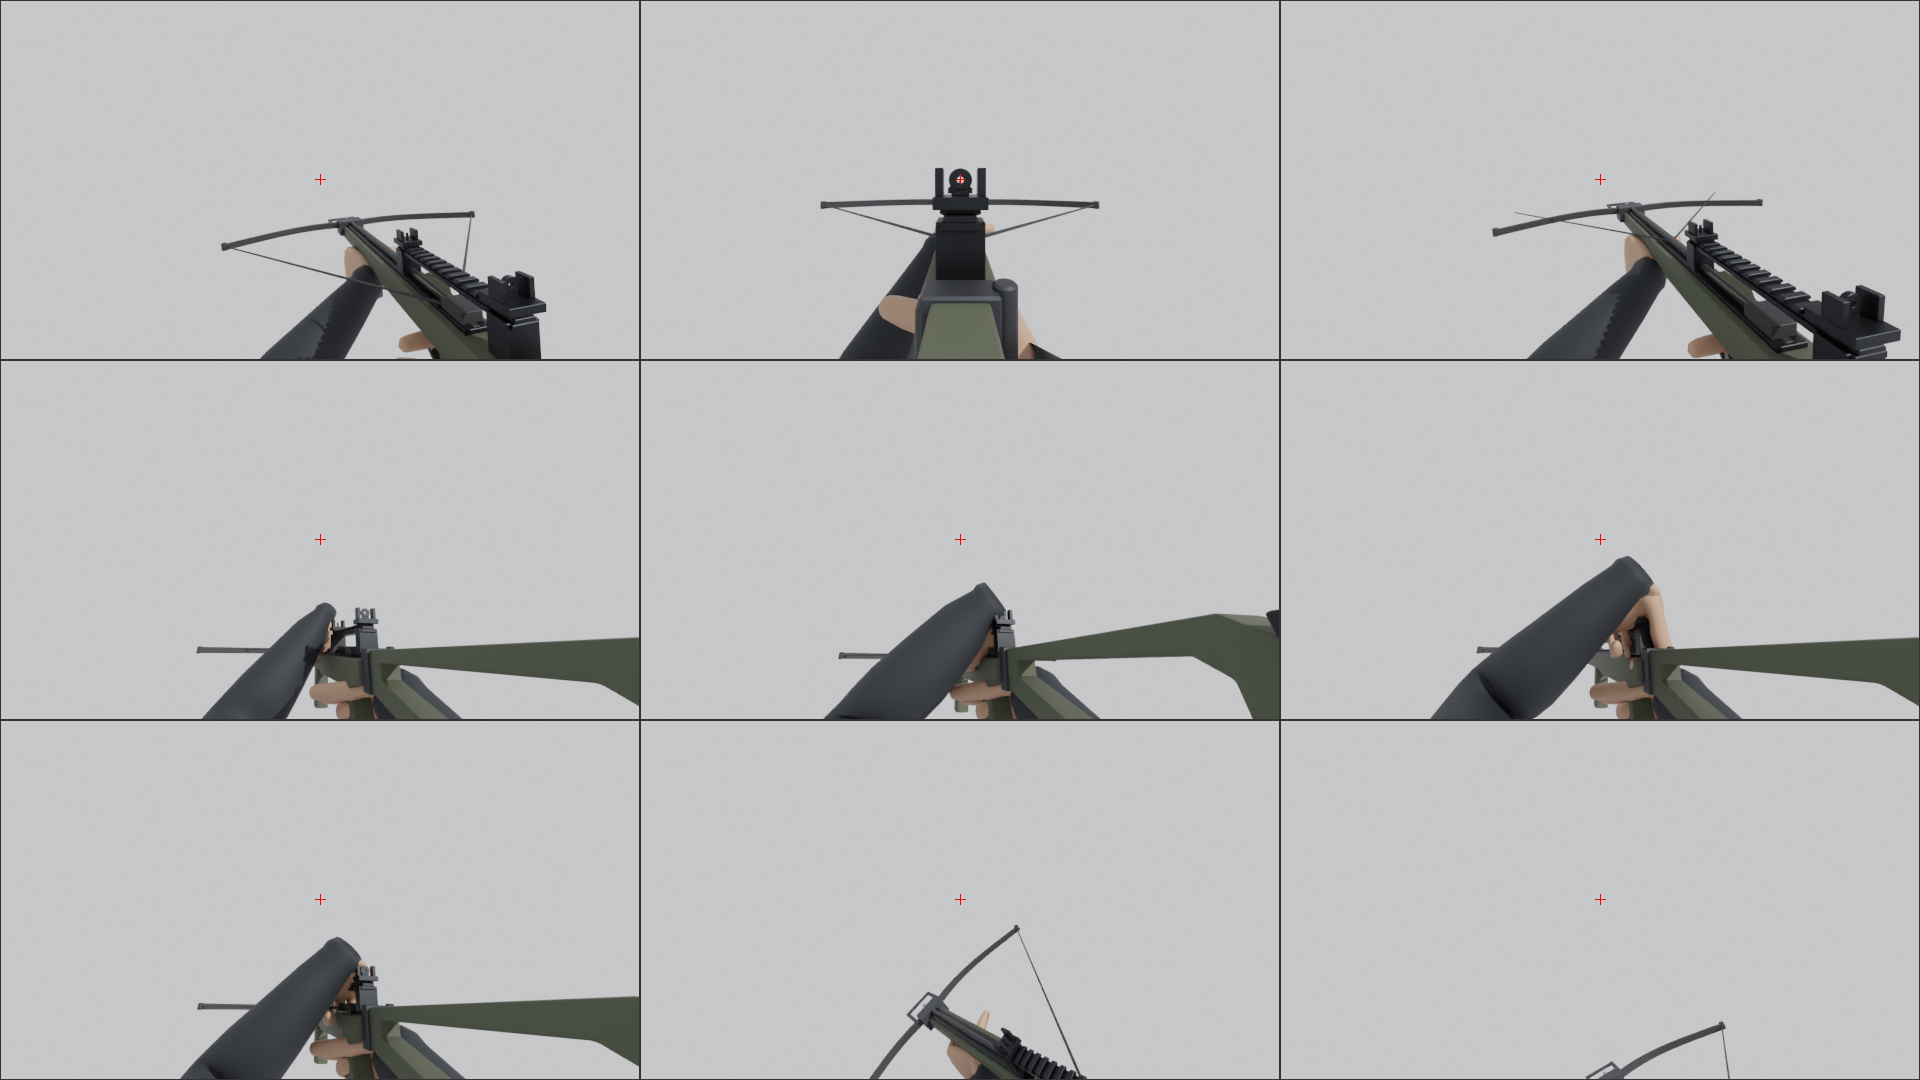
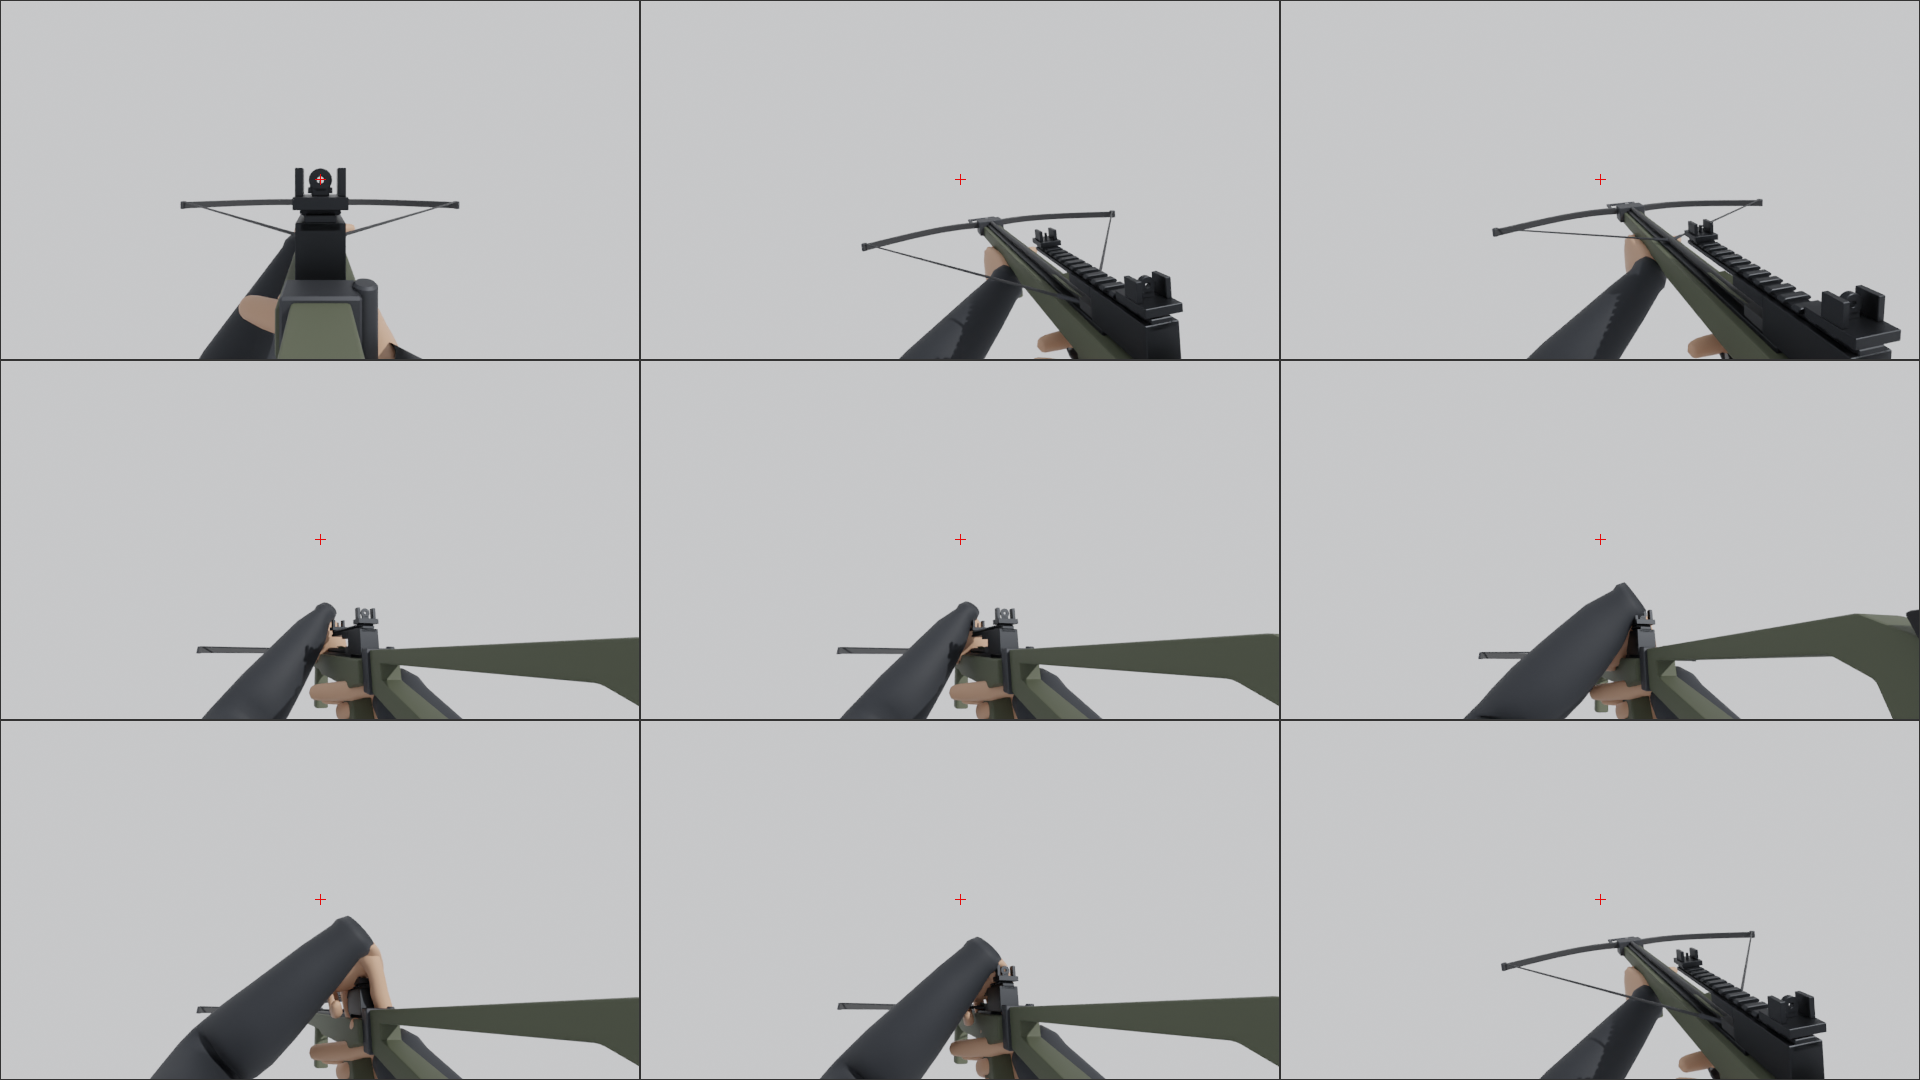
[B4-18] crossbow FP matched to B's real two-half Vise (rests released; string centre follows the hook's ease); arm weight-gradient guard (sawtooth = rail shadow, not mesh)
Claude-Session: https://claude.ai/code/session_016Esc7YANZPKv4jDCqWdvQ8

diff --git a/tools/blender/characters/arms_fp.py b/tools/blender/characters/arms_fp.py
@@ -21,6 +21,8 @@ and the magazine with a BoneAttachment3D on ``magazine``. Every clip keys the sa
 numbers at 30 fps) and the moving-part conventions are listed in SOURCE.txt.
 """
 
+import math
+
 import _anim as anim
 import _arms as arms
 import _arms_clips as clips_mod
@@ -91,16 +93,21 @@ def notes() -> dict:
                         "local X), same timing rules as fp.break_action; eject: spawn the 40 mm casing; round_in: the round "
                         f"(in the left hand from round_in-16) is seated; fire/fire_ads {sets.LAUNCHER_FIRE} f heavy recoil; "
                         "reload_empty = reload; defaults 3.0 s / equip 0.7 s"),
-        "fp.crossbow": (f"string = two halves StringUpper / StringLower (ENV B's Vise), each from its prod-tip anchor to "
-                        f"the string CENTRE where they meet; the model is LATCHED (centre on the Magwell, Godot model "
-                        f"{_g(sets.CROSSBOW.markers['string_latched'])}); released = the centre {sets.STRING_TRAVEL:.3f} m "
-                        f"forward, {_g(sets.CROSSBOW.markers['string_rest'])}. Per frame: centre = released + (latched - "
+        "fp.crossbow": (f"string = two halves StringUpper (left) / StringLower (right) (ENV B's Vise), each node's origin "
+                        f"= its fixed prod-tip anchor, Godot model ({-sets.STRING_ANCHOR_X:.3f} / {sets.STRING_ANCHOR_X:.3f}, "
+                        f"{sets.STRING_LATCHED[2]:.3f}, {-sets.STRING_ANCHOR_Y:.3f}), its ...Cord running to the string "
+                        f"CENTRE where they meet; the model RESTS RELEASED (rotation 0: centre "
+                        f"{_g(sets.CROSSBOW.markers['string_rest'])}, {sets.STRING_TRAVEL:.3f} m ahead of the nock); "
+                        f"latched = the centre on the Magwell, Godot model {_g(sets.CROSSBOW.markers['string_latched'])}. "
+                        "Per frame: centre = released + (latched - "
                         "released) x string, string from curve.crossbow_<clip> (1 = latched, 0 = released; clips without "
                         "a curve keep the current state: latched when loaded). ENV A bends each half about its fixed "
-                        "anchor: rotate it so its inner end points at the centre and stretch it along that line by "
-                        "|centre - anchor| / |latched - anchor|. fire/fire_ads string_release@0 (latched -> released over "
+                        "anchor: rotate it (about its local X) so its inner end points at the centre and stretch it along "
+                        f"that line (local Y) by |centre - anchor| / |released - anchor| (latched: {_latch_swing()}). "
+                        "fire/fire_ads string_release@0 (latched -> released over "
                         "frames 0..1); reload: muzzle down, the left fingers hook the centre at cock and pull it back "
-                        "to the latch by string_back (smoothstep cock..string_back); the bolt (Magwell) rides the magazine "
+                        "to the latch by string_back (string = ((f - cock) / (string_back - cock))^2.4, the hand's own ease, "
+                        "so the fingers stay on the centre); the bolt (Magwell) rides the magazine "
                         "bone: hidden after the shot, shown at bolt_show (carried in the left hand), laid on the rail by "
                         "bolt_in (bone identity from bolt_in); reload_empty = reload; defaults 2.0 s / equip 0.55 s"),
         "fp.lever": (f"Lever swings {sets.LEVER_OPEN_DEG:.0f} deg down (+ about its local X: the loop's rear end goes down) "
@@ -192,6 +199,15 @@ def export_name(name: str, table: dict) -> str:
     """Loops get Godot's ``-loop`` suffix (stripped on import), except names already ending in ``_loop``,
     which Godot loops by that suffix while keeping the name (``shotgun_reload_loop`` precedent)."""
     return f"{name}-loop" if table[name]["loop"] and not name.endswith("_loop") else name
+
+
+def _latch_swing() -> str:
+    """The latched swing / stretch of a string half from the markers (ENV B's SOURCE: +/-18.74 deg, x1.3049)."""
+    m = sets.CROSSBOW.markers
+    rx, ry = m["string_rest"][0] - sets.STRING_ANCHOR_X, m["string_rest"][1] - sets.STRING_ANCHOR_Y
+    lx, ly = m["string_latched"][0] - sets.STRING_ANCHOR_X, m["string_latched"][1] - sets.STRING_ANCHOR_Y
+    ang = math.degrees(abs(math.atan2(ly, lx) - math.atan2(ry, rx)))
+    return f"-/+{ang:.2f} deg, x{math.hypot(lx, ly) / math.hypot(rx, ry):.4f}"
 
 
 def _g(p) -> str:

diff --git a/tools/blender/characters/_arms_review.py b/tools/blender/characters/_arms_review.py
@@ -74,8 +74,8 @@ def _rot_about(R: np.ndarray, c) -> Matrix:
 
 def _bend_half(ob, rest: Matrix, c0: np.ndarray, c1: np.ndarray) -> Matrix:
     """Model-space matrix that swings a crossbow string half about its anchor (the part origin, or its mesh
-    point farthest from the latched centre when the origin sits at the centre) so the end at ``c0`` reaches
-    ``c1``, stretched along the half by the length ratio."""
+    point farthest from the rest centre ``c0`` when the origin sits at the centre) so the end at ``c0`` (the
+    model's released centre) reaches ``c1``, stretched along the half by the length ratio."""
     a = np.array(rest.to_translation())
     if np.linalg.norm(a - c0) < 0.03 and ob.type == "MESH" and len(ob.data.vertices):
         pts = np.array([tuple(rest @ v.co) for v in ob.data.vertices])
@@ -84,7 +84,7 @@ def _bend_half(ob, rest: Matrix, c0: np.ndarray, c1: np.ndarray) -> Matrix:
     l0, l1 = float(np.linalg.norm(u0)), float(np.linalg.norm(u1))
     n0, n1 = u0 / l0, u1 / l1
     ax = np.cross(n0, n1)
-    if np.linalg.norm(ax) < 1e-9:              # no swing (latched): any axis normal to the half
+    if np.linalg.norm(ax) < 1e-9:              # no swing (released): any axis normal to the half
         ax = np.cross(n0, np.array([0.0, 0.0, 1.0])) if abs(n0[2]) < 0.9 else np.cross(n0, np.array([1.0, 0.0, 0.0]))
     R = A.align(n0, ax, n1, ax)                # minimal rotation n0 -> n1 about n0 x n1
     S = np.eye(3) + (l1 / l0 - 1.0) * np.outer(n0, n0)
@@ -271,14 +271,12 @@ def _pose_real_parts(s, st, parts: dict, rest: dict, Mg: Matrix) -> None:
             A.rxd(np.degrees(st.extra.get("spin", 0.0))), np.array(rest["Blade"].to_translation())) @ rest["Blade"]
     halves = [n for n in ("StringUpper", "StringLower") if n in parts]
     if halves and s.name == "crossbow":
-        # the two-half string: each half bends from its prod-tip anchor to the string centre (fp.crossbow)
-        c0 = np.asarray(s.markers["string_latched"], float)
+        # the two-half string (fp.crossbow): each half node (origin = its prod-tip anchor; the ...Cord child follows)
+        # rests RELEASED, its cord ending on string_rest; it swings about the anchor and stretches to the centre
+        c0 = np.asarray(s.markers["string_rest"], float)
         c1 = B.string_centre(s, st.extra.get("string", 1.0))
         for n in halves:
             parts[n].matrix_world = Mg @ _bend_half(parts[n], rest[n], c0, c1) @ rest[n]
-    elif "String" in parts and s.name == "crossbow":
-        t = 1.0 - st.extra.get("string", 1.0)          # 0 = latched (the model's pose) .. 1 = released
-        about_origin("String", np.eye(3), (0.0, S.STRING_TRAVEL * t, 0.0))
 
 
 magazine_frame_cache: dict = {}

diff --git a/tools/blender/characters/_arms_sets.py b/tools/blender/characters/_arms_sets.py
@@ -492,13 +492,16 @@ LAUNCHER = FPSet(
 )
 
 # -- crossbow (Vise crossbow: lever-cocked, one bolt) -------------------------------------------
-#: The string is two halves, ``StringUpper`` / ``StringLower`` (ENV B's rebuilt Vise), each running from its prod-tip
-#: anchor to the string CENTRE, where they meet. The model is LATCHED: the centre on the ``Magwell`` (Blender weapon
-#: (0, 0.016, 0.066) = Godot model (0, 0.066, -0.016)) with the bolt nocked; released, the centre is STRING_TRAVEL m
-#: forward (Blender +Y, Godot -Z). The cocking hand pulls the centre from released to latched; ENV A bends each half
-#: from its anchor to the centre (``string_centre``). The bolt rides the ``magazine`` bone (``Magwell``).
+#: The string is two halves, ``StringUpper`` (left) / ``StringLower`` (right) (ENV B's Vise, ``_vise.py``): each half
+#: node's origin is its prod-tip anchor (limb-tip axle, Blender weapon (-/+0.290, 0.339, 0.066)) and its ``...Cord``
+#: runs to the string CENTRE, where they meet. The model RESTS RELEASED (brace): the halves meet STRING_TRAVEL m ahead
+#: of the nock, Blender (0, 0.176, 0.066) = Godot model (0, 0.066, -0.176). Latched, the centre is on the ``Magwell``
+#: (Blender (0, 0.016, 0.066) = Godot (0, 0.066, -0.016)) with the bolt nocked. The cocking hand pulls the centre from
+#: released to latched; ENV A bends each half from its anchor to the centre (``string_centre``). The bolt rides the
+#: ``magazine`` bone (``Magwell``).
 STRING_TRAVEL = 0.160
 STRING_LATCHED = (0.0, 0.016, 0.066)            # Blender weapon space (x right, y muzzle, z up)
+STRING_ANCHOR_X, STRING_ANCHOR_Y = 0.290, 0.339  # the halves' prod-tip anchors (-/+x, y, STRING_LATCHED z)
 CROSSBOW_DEFAULTS = {"reload_time_s": 2.0, "equip_time_s": 0.55, "fire_rate_rpm": 30.0}
 CROSSBOW_FIRE = 10
 
@@ -517,8 +520,8 @@ CROSSBOW_DATA = _b3_row("crossbow", CROSSBOW_DEFAULTS)
 CROSSBOW = FPSet(
     name="crossbow", weapon="wpn_vise_crossbow",
     # D2-04: ENV B's wpn_vise_crossbow: the left hand on the vertical Foregrip (palm on LeftHandIK),
-    # AimPoint = the peep, the string halves meet latched on the Magwell, BoltArrow nocked on Magwell (0.40 m);
-    # string_latched / string_rest = the string CENTRE (where StringUpper meets StringLower)
+    # AimPoint = the peep, the string halves rest released (string_rest) and latch on the Magwell, BoltArrow nocked
+    # on Magwell (0.40 m); string_latched / string_rest = the string CENTRE (where StringUpper meets StringLower)
     markers={"left_ik": v3(-0.016, 0.250, -0.006), "left_palm": v3(-0.016, 0.250, -0.006),
              "aim": v3(0.0, -0.040, 0.1122),
              "string_latched": v3(*STRING_LATCHED),

diff --git a/tools/blender/characters/_arms_breech.py b/tools/blender/characters/_arms_breech.py
@@ -152,9 +152,14 @@ def clip_break_reload(kit, s: FPSet, N: int):
 # =============================================================================================
 # crossbow
 # =============================================================================================
+#: the cocking pull's key ease (hook(0) at cock -> hook(1) at string_back); string_pos follows the same curve
+STRING_PULL_EASE = "heavy"
+
+
 def string_pos(f: int, ev: dict | None, fire: bool = False) -> float:
-    """``String`` position 0 (released, scene pose) .. 1 (latched): fire = 1 -> 0 over frames 0..1;
-    reload: 0 until the hook (cock), follows the hand back to the latch by string_back."""
+    """String centre position 0 (released, the Vise's scene pose) .. 1 (latched): fire = 1 -> 0 over frames 0..1;
+    reload: 0 until the hook (cock), then follows the hand back to the latch by string_back with the hand's own
+    ``heavy`` key ease ((f - cock) / (string_back - cock))^2.4, so the hooked fingers stay on the centre."""
     if fire:
         return 1.0 if f <= 0 else 0.0
     c, sb = ev["cock"], ev["string_back"]
@@ -162,7 +167,7 @@ def string_pos(f: int, ev: dict | None, fire: bool = False) -> float:
         return 0.0
     if f >= sb:
         return 1.0
-    return smooth(c, sb, f)
+    return float(A.EASES[STRING_PULL_EASE]((f - c) / (sb - c)))
 
 
 def string_centre(s: FPSet, t: float) -> np.ndarray:
@@ -202,7 +207,7 @@ def clip_crossbow_reload(kit, s: FPSet, N: int):
     keys = [K(0, hip, sup, g, blade=bl),
             K(c - 5, tilt, hook(0.0, "flat").moved(v3(0.0, 0.03, 0.04)), g, blade=bl, arc_l=(-0.04, 0.0, 0.04)),
             K(c, tilt, hook(0.0), g, blade=bl, ease="out"),
-            K(sb, pull, hook(1.0), g, blade=bl, ease="heavy"),
+            K(sb, pull, hook(1.0), g, blade=bl, ease=STRING_PULL_EASE),
             K(sb + min(3, max(1, (bs - sb) // 3)), tilt, hook(1.0, "relaxed").moved(v3(-0.02, 0.0, 0.03)), g, blade=bl, ease="out"),
             K(bs, tilt, bolt_grip, g, mag=mag_for(pouch), blade=bl, arc_l=(-0.06, 0.0, 0.0)),
             K(bi - 7, tilt, bolt_grip, g, mag=("w", I3.copy(), v3(-0.004, -0.075, 0.030)), blade=bl,

diff --git a/tools/blender/characters/_arms_review_b3.py b/tools/blender/characters/_arms_review_b3.py
@@ -26,9 +26,10 @@ REVIEW_CELLS = {
     "launcher": ["launcher_idle:0", "launcher_ads_idle:0", "launcher_fire:2", "launcher_reload:16",
                  "launcher_reload:23", "launcher_reload:48", "launcher_reload:52", "launcher_reload:71",
                  "launcher_draw:10"],
-    "crossbow": ["crossbow_idle:0", "crossbow_ads_idle:0", "crossbow_fire:1", "crossbow_reload:10",
-                 "crossbow_reload:17", "crossbow_reload:30", "crossbow_reload:34", "crossbow_sprint:4",
-                 "crossbow_draw:10"],
+    # fire:0 latched / fire:1 released; reload cock@10 (hooked, released) .. 13 (mid pull) .. string_back@17 (latched)
+    "crossbow": ["crossbow_ads_idle:0", "crossbow_fire:0", "crossbow_fire:1", "crossbow_reload:10",
+                 "crossbow_reload:13", "crossbow_reload:17", "crossbow_reload:30", "crossbow_reload:34",
+                 "crossbow_idle:0"],
     "lever": ["lever_idle:0", "lever_ads_idle:0", "lever_fire:8", "lever_fire_ads:8", "lever_reload_start:12",
               "lever_reload_loop:6", "lever_reload_loop:9", "lever_reload_end_empty:13", "lever_sprint:4"],
     "bow": ["bow_idle:0", "bow_ads_idle:0", "bow_draw_string:10", "bow_hold:0", "bow_release:2", "bow_nock:6",
